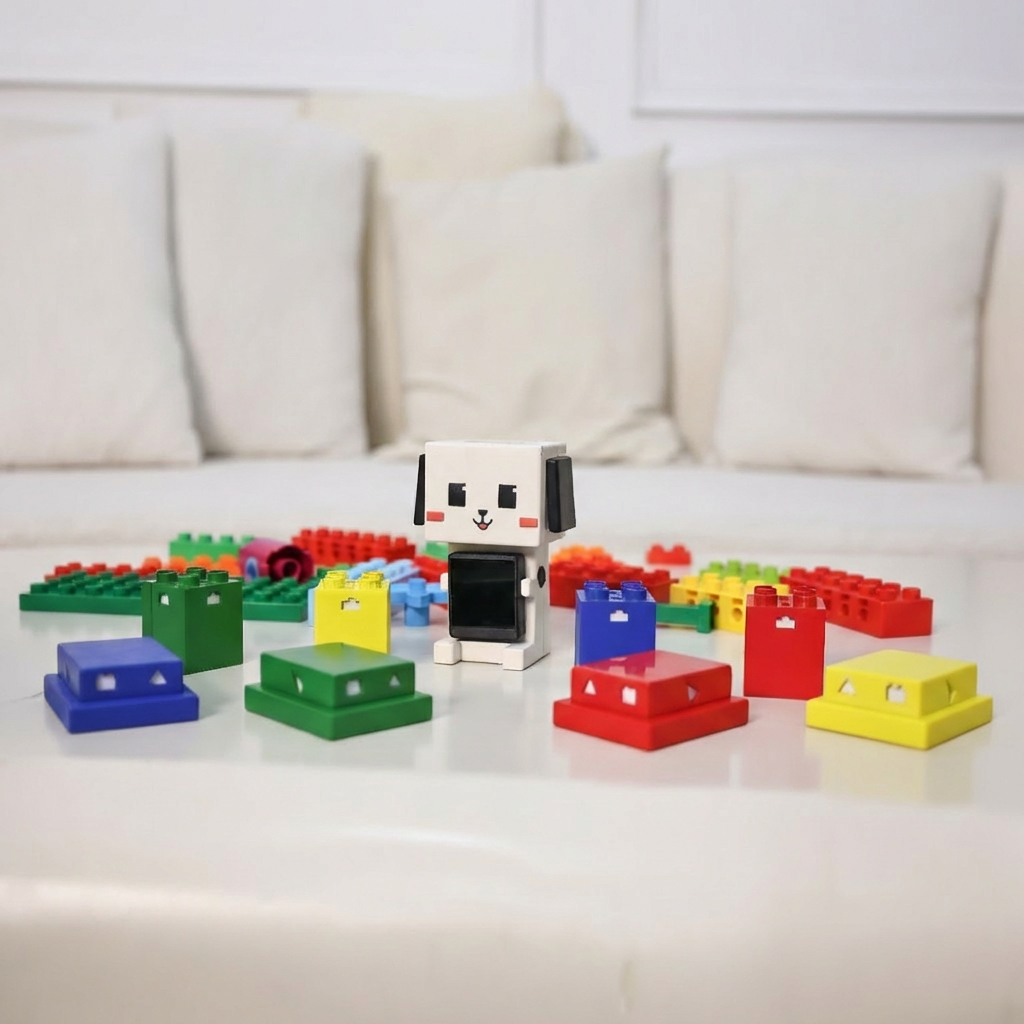
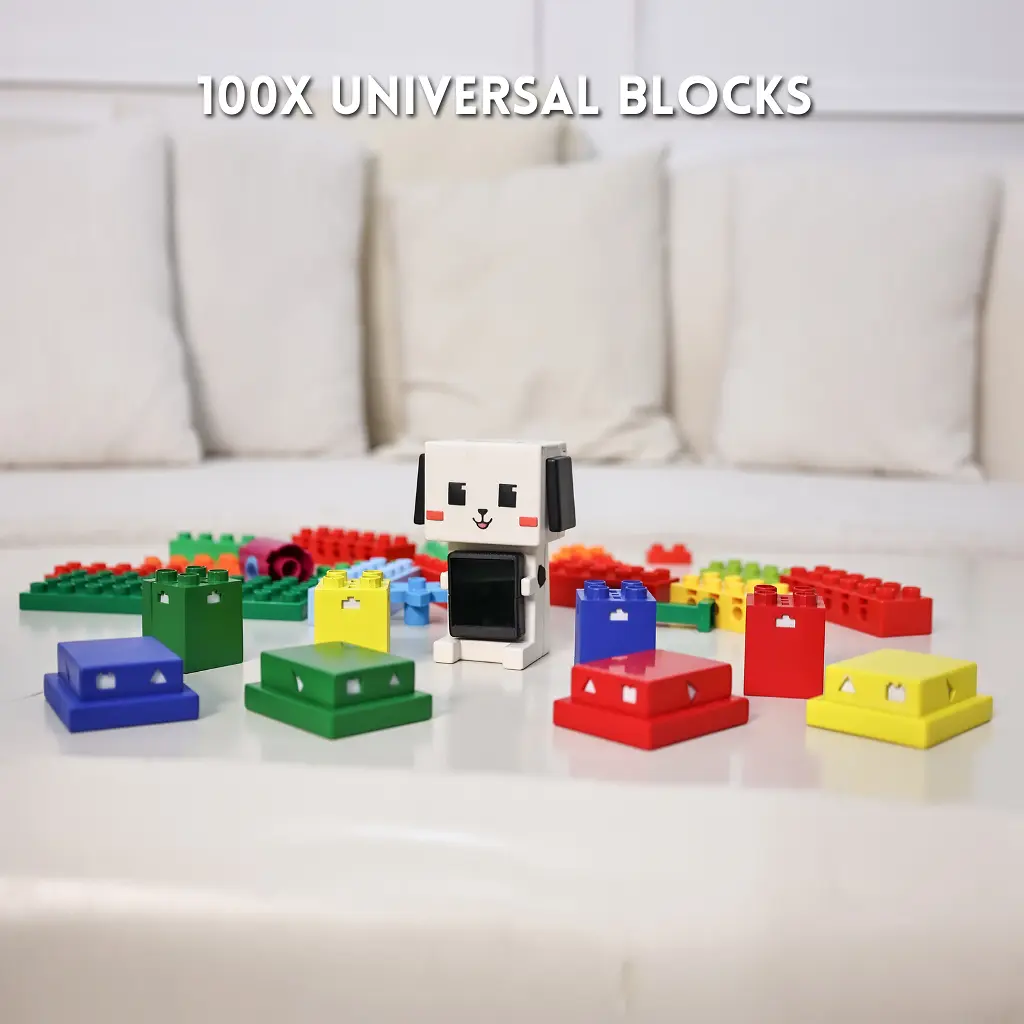
0128更新商品详情页图片（添加文字描述）

diff --git a/components/ProductCarousel.jsx b/components/ProductCarousel.jsx
@@ -3,11 +3,15 @@ import { useState, useEffect, useRef } from 'react';
 export default function ProductCarousel() {
   const [currentImage, setCurrentImage] = useState(0);
   // Define image sets
+  // Define image sets
+  // Define image sets
   const desktopImages = [
-    '/assets/reserve-vip-spot/0.webp',
-    '/assets/reserve-vip-spot/1.webp',
+    '/assets/kit/desktop/Sparky.webp',
+    '/assets/kit/desktop/0.webp',
+    '/assets/kit/desktop/MagicalHats.webp',
+    '/assets/kit/desktop/magical blocks.webp',
+    '/assets/kit/desktop/1.webp',
     '/assets/reserve-vip-spot/5.png',
-    '/assets/reserve-vip-spot/2.webp',
     '/assets/reserve-vip-spot/3.png',
     '/assets/reserve-vip-spot/4.webp',
     '/assets/reserve-vip-spot/6.png'
@@ -15,10 +19,12 @@ export default function ProductCarousel() {
 
   // Mobile images exclude the last one (6.png)
   const mobileImages = [
-    '/assets/reserve-vip-spot/0.webp',
-    '/assets/reserve-vip-spot/1.webp',
+    '/assets/kit/mobile/Sparky.webp',
+    '/assets/kit/mobile/0.webp',
+    '/assets/kit/mobile/MagicalHats.webp',
+    '/assets/kit/mobile/magical blocks.webp',
+    '/assets/kit/mobile/1.webp',
     '/assets/reserve-vip-spot/5.png',
-    '/assets/reserve-vip-spot/2.webp',
     '/assets/reserve-vip-spot/3.png',
     '/assets/reserve-vip-spot/4.webp'
   ];

diff --git a/pages/index.jsx b/pages/index.jsx
@@ -854,6 +854,7 @@ export default function Home({ isVip = false }) {
                   <div className="kit-media-single">
                     <KitCarousel
                       mobileImages={[
+                        '/assets/kit/mobile/Sparky.webp',
                         '/assets/kit/mobile/0.webp',
                         '/assets/kit/mobile/1.webp',
                         '/assets/kit/mobile/5.png',
@@ -862,6 +863,7 @@ export default function Home({ isVip = false }) {
                         '/assets/kit/mobile/4.webp'
                       ]}
                       desktopImages={[
+                        '/assets/kit/desktop/Sparky.webp',
                         '/assets/kit/desktop/0.webp',
                         '/assets/kit/desktop/1.webp',
                         '/assets/kit/desktop/5.png',
